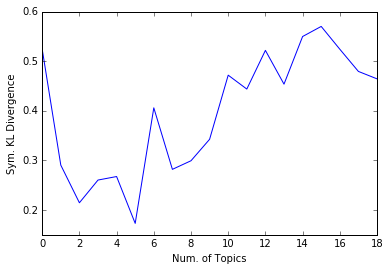
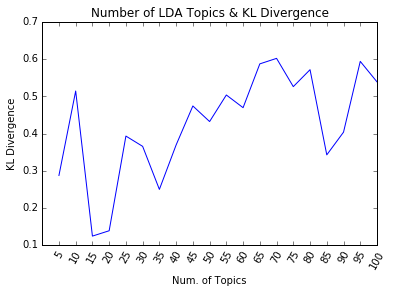
on-going work with KL divergence

diff --git a/temp.py b/temp.py
@@ -6,6 +6,7 @@ across range of number of topics.
 
 import os
 import matplotlib.pyplot as plt
+import multiprocessing as mp
 import numpy as np
 import scipy.stats as stats
 import time
@@ -30,19 +31,19 @@ def arun(corpus, dictionary, min_topics=10, max_topics=100, step=10):
     l = np.array([sum(cnt for _, cnt in doc) for doc in corpus])
     
     kl = []
-    for n in range(min_topics, max_topics, step):
+    for n in range(min_topics, max_topics+step, step):
         print("starting multicore LDA for num_topics={}".format(n))
         st = time.clock()
         lda = LdaMulticore(corpus=corpus,
                            id2word=vocabulary,
                            num_topics=n,
                            passes=20,
-                           workers=3)
+                           workers=mp.cpu_count()-1)
         el = time.clock()-st
-        print("multicore LDA finished in {:.2f}!".format(el))
+        print("multicore LDA finished in {:.2f}s!".format(el))
         
         m1 = lda.expElogbeta
-        U,cm1,V = np.linalg.svd(m1)
+        _, cm1, _ = np.linalg.svd(m1)
         
         lda_topics = lda[corpus]
         m2 = matutils.corpus2dense(lda_topics, lda.num_topics).transpose()
@@ -54,9 +55,14 @@ def arun(corpus, dictionary, min_topics=10, max_topics=100, step=10):
         
     return kl
     
+  
 kl = arun(mm, vocabulary, min_topics=5, max_topics=100, step=5)
+x = list(range(5,100+5,5))  
+labels = ["{}".format(e) for e in range(5,105,5)]
 
-plt.plot(kl)
-plt.ylabel("Sym. KL Divergence")
+plt.plot(x, kl)
+plt.xticks(x, labels, rotation=60)
+plt.title("Number of LDA Topics & KL Divergence")
+plt.ylabel("KL Divergence")
 plt.xlabel("Num. of Topics")
 plt.savefig("sym_kl_div.png", bbox_inches="tight")
